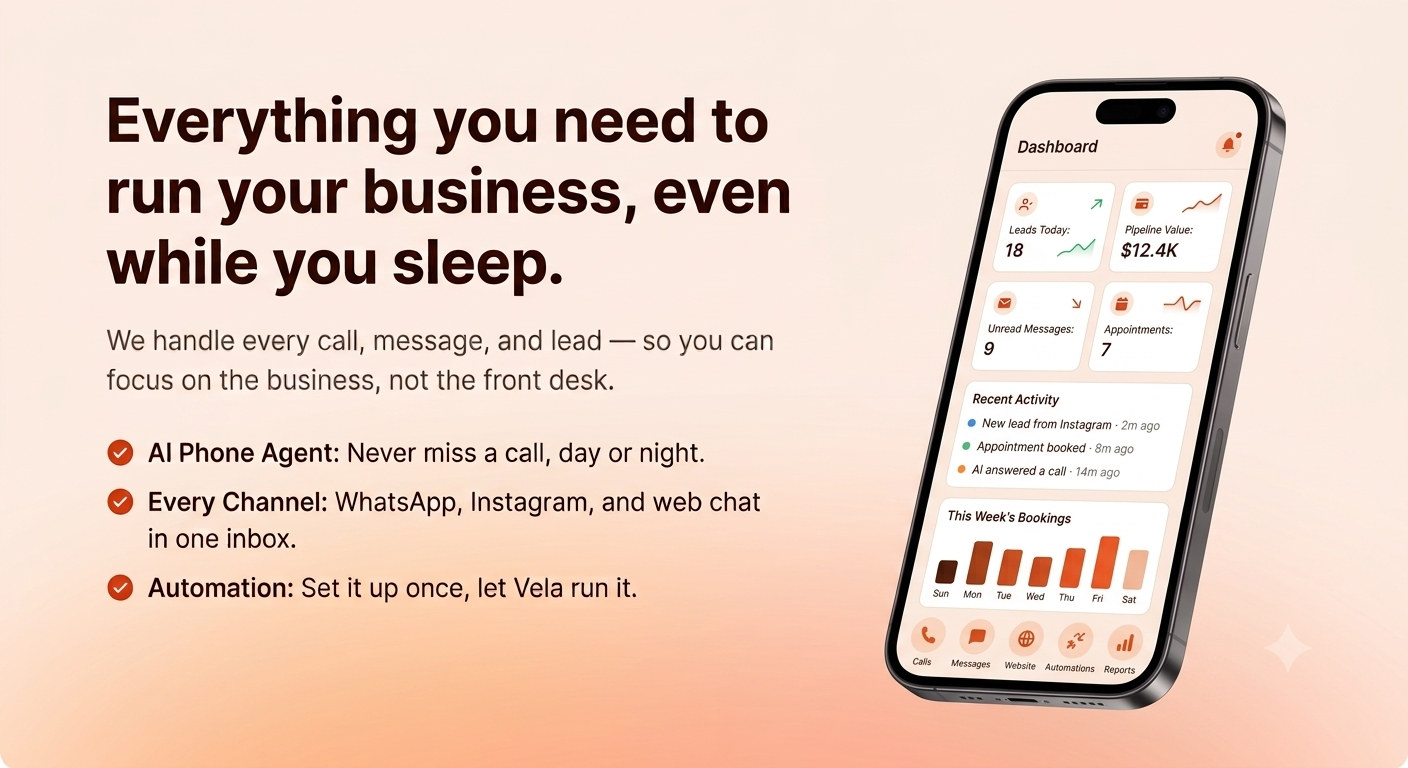
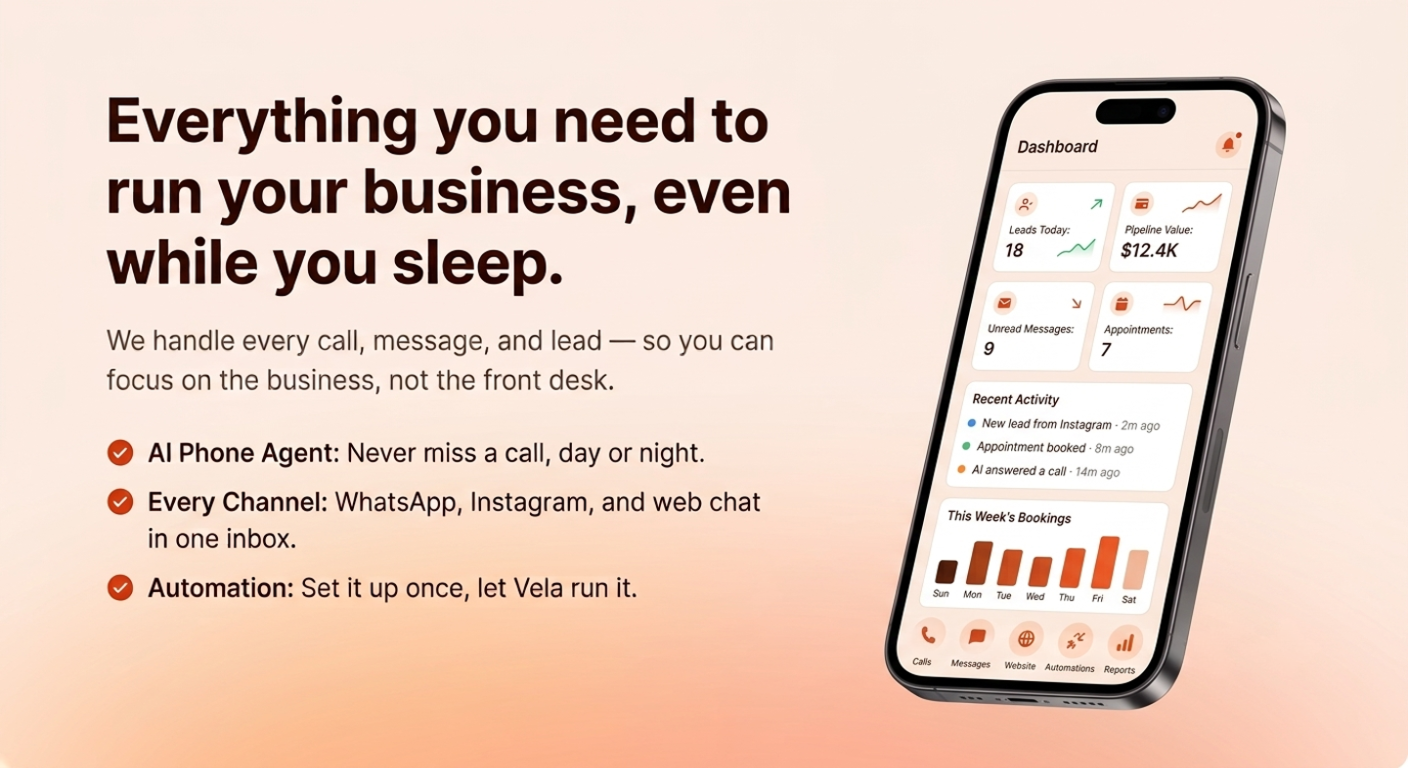
feat(landing): dashboard CTA in image, plain eyebrow labels, pricing tightened
FIX 1: DashboardSection — button repositioned inside image via absolute % positioning
FIX 2: .section-label stripped to plain black uppercase text (no pill/bg/dot/border)
        dot spans removed from ComparisonSection + FeatureTabs
FIX 3: Pricing — duplicate cancel-anytime line removed, Try Demo + toggle gap halved

New dashboard-mockup.png committed (1984592 bytes, was 1379957)

diff --git a/src/components/landing/DashboardSection.tsx b/src/components/landing/DashboardSection.tsx
@@ -5,20 +5,22 @@ export default function DashboardSection() {
   return (
     <section className="py-10 md:py-14 bg-white">
       <div className="max-w-6xl mx-auto px-5 md:px-6">
-        <Image
-          src="/assets/dashboard-mockup.png"
-          alt="Vela dashboard — AI employee managing your business channels"
-          width={1408}
-          height={768}
-          className="w-full h-auto rounded-2xl"
-          unoptimized
-          priority={false}
-        />
-        {/* CTA left-aligned below the dashboard image */}
-        <div className="mt-5">
-          <Link href="/auth/signup" className="btn-primary whitespace-nowrap">
-            Get Started
-          </Link>
+        <div className="relative">
+          <Image
+            src="/assets/dashboard-mockup.png"
+            alt="Vela dashboard — AI employee managing your business channels"
+            width={1408}
+            height={768}
+            className="w-full h-auto rounded-2xl"
+            unoptimized
+            priority={false}
+          />
+          {/* CTA positioned in the blank space baked into the bottom of the image */}
+          <div className="absolute bottom-[8%] left-1/2 -translate-x-1/2">
+            <Link href="/auth/signup" className="btn-primary whitespace-nowrap">
+              Get Started
+            </Link>
+          </div>
         </div>
       </div>
     </section>

diff --git a/src/components/landing/Pricing.tsx b/src/components/landing/Pricing.tsx
@@ -25,7 +25,7 @@ export default function Pricing() {
             {t("landing.pricing.cancelAnytime")}
           </p>
 
-          <div className="mt-6">
+          <div className="mt-3">
             <Link
               href="/demo"
               className="inline-flex items-center gap-2 px-6 py-3 rounded-xl font-semibold text-sm border border-[#E5E7EB] text-[#374151] hover:border-[#FF6B35] hover:text-[#FF6B35] transition-all duration-200"
@@ -39,7 +39,7 @@ export default function Pricing() {
           </div>
 
           {/* Toggle */}
-          <div className="inline-flex items-center gap-1 mt-8 p-1 rounded-full bg-white border border-[#E5E7EB] shadow-sm">
+          <div className="inline-flex items-center gap-1 mt-4 p-1 rounded-full bg-white border border-[#E5E7EB] shadow-sm">
             <button
               onClick={() => setAnnual(false)}
               className={`px-5 py-2 rounded-full text-sm font-semibold transition-all duration-200 ${
@@ -161,9 +161,6 @@ export default function Pricing() {
           </Link>
         </div>
 
-        <p className="text-center text-sm text-[#6B7280] mt-8">
-          {t("landing.pricing.cancelNote")}
-        </p>
       </div>
     </section>
   );

diff --git a/src/components/landing/ComparisonSection.tsx b/src/components/landing/ComparisonSection.tsx
@@ -8,8 +8,7 @@ export default function ComparisonSection() {
 
         {/* Section header */}
         <div className="text-center mb-10 md:mb-14">
-          <span className="section-label inline-flex mb-4">
-            <span className="w-1.5 h-1.5 rounded-full bg-[#FF6B35]" aria-hidden="true" />
+          <span className="section-label mb-4">
             Why Vela
           </span>
           <h2

diff --git a/src/components/landing/FeatureTabs.tsx b/src/components/landing/FeatureTabs.tsx
@@ -269,8 +269,7 @@ export default function FeatureTabs() {
 
         {/* Section header */}
         <div className="text-center mb-12 md:mb-16">
-          <span className="section-label inline-flex mb-4">
-            <span className="w-1.5 h-1.5 rounded-full bg-[#FF6B35]" />
+          <span className="section-label mb-4">
             How It Works
           </span>
           <h2

diff --git a/src/app/globals.css b/src/app/globals.css
@@ -136,9 +136,8 @@ html.dark body::before { display: none; }
   }
 
   .section-label {
-    @apply inline-flex items-center gap-2 text-xs font-semibold uppercase tracking-widest px-3 py-1.5 rounded-full;
-    background: var(--vp-12);
-    color: var(--vp-color);
+    @apply inline-block text-xs font-semibold uppercase tracking-widest;
+    color: #111111;
   }
 
   .card-glass {
